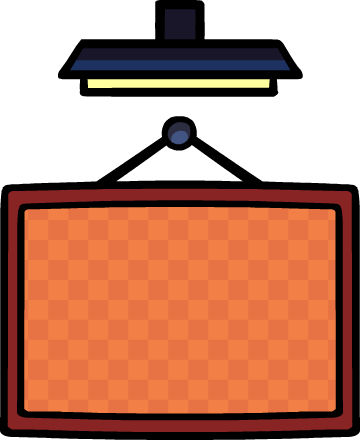
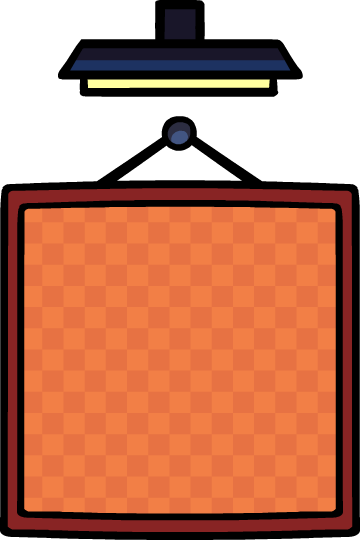
Daily count from 3 to 5 + select modded variation support.

Changed region(s): [[0.0, 0.0591, 1.0, 0.5023], [0.0, 0.9159, 1.0, 1.0], [0.9778, 0.8568, 1.0, 0.9159]]

diff --git a/changelog.md b/changelog.md
@@ -23,6 +23,13 @@
     - 1 Epic
     - 2 Legendary
     - 1 Special
+- Added support for the following modded variations as Dailies:
+    - Remnants (Funkin' Remnants)
+    - Gooey (Gooey Mix)
+    - Reimu (Funkin' Incident)
+    - Spooky (Spooky Mix)
+    - QT (QT Rewired, mixes not out as of this update)
+    - Hundrec (Hundrec Mix, not out as of this update)
 
 ### Changed
 
